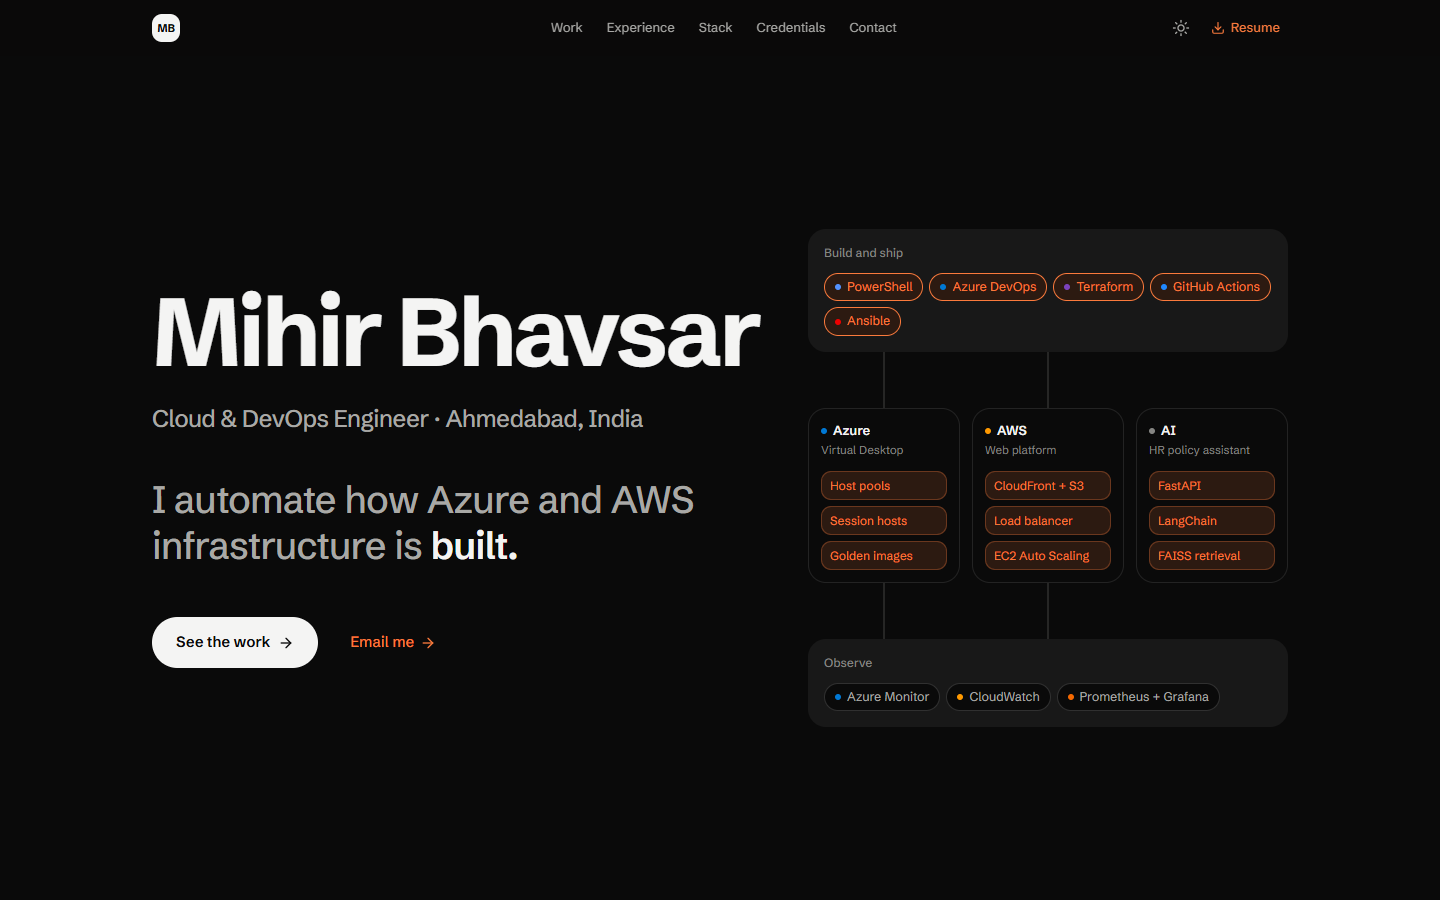
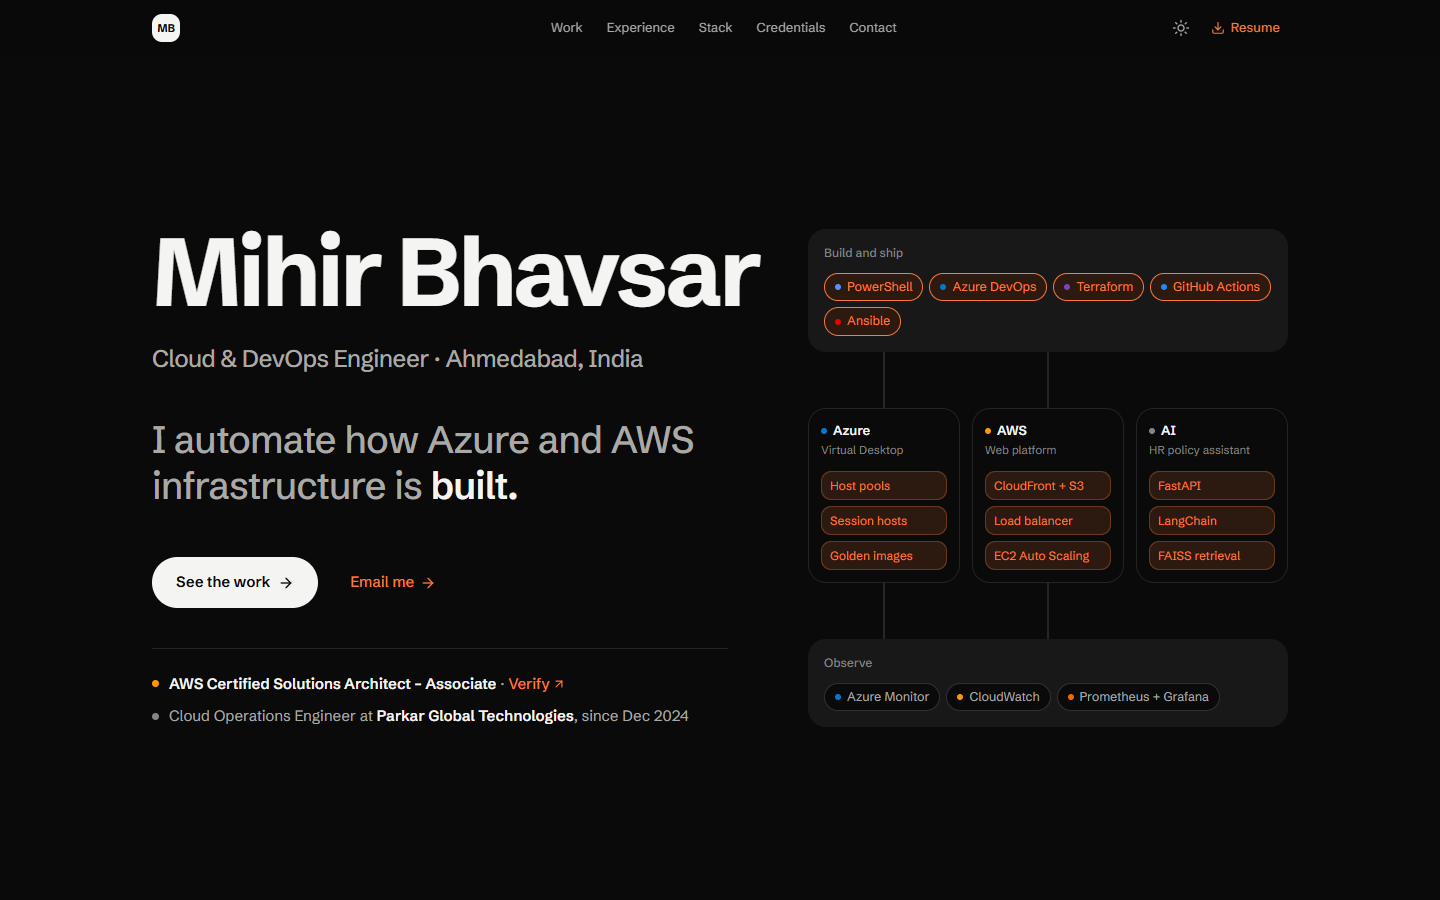
docs: record the phone diagrams, Experience lines and hero proof; refresh README screenshots

Changed region(s): [[0.0938, 0.2489, 0.5312, 0.8089]]

diff --git a/DESIGN.md b/DESIGN.md
@@ -225,7 +225,7 @@ components:
 
 **Creative North Star: "The Statement"**
 
-The site reads like a product launch page for an engineer: one idea per screen, set in big, confident, tightly tracked type, with nothing on the page that is not content. Screen one is who and what: the name, the role, and one crisp positioning line whose last word rolls through built, shipped and monitored, while the estate in miniature beside it plays the same three steps. Screen two proves it, with six measured figures at display size, each attached to the sentence that says how it was achieved. Screen three shows how the estate fits together, and any figure lights the infrastructure that produced it. The rest of the page keeps the same grammar: a statement heading, a short intro, then the evidence.
+The site reads like a product launch page for an engineer: one idea per screen, set in big, confident, tightly tracked type, with nothing on the page that is not content. Screen one is who and what: the name, the role, and one crisp positioning line whose last word rolls through built, shipped and monitored, while the estate in miniature beside it plays the same three steps; under the buttons, two proof lines name the AWS certification and the current role, the facts a recruiter screens for. Screen two proves it, with six measured figures at display size, each attached to the sentence that says how it was achieved. Screen three shows how the estate fits together, and any figure lights the infrastructure that produced it. The rest of the page keeps the same grammar: a statement heading, a short intro, then the evidence.
 
 The palette is pure white or pure black with near-black or near-white ink, in two first-class themes. A single persimmon accent marks what you can act on and what is lit, and colour beyond that appears only where it names something: the cloud a case study ran on, or a technology's brand dot. Depth is quiet: one tinted band behind the map, tinted cards for the work, and hairlines. Motion is one story and two entrances. The story is the hero's: every 3.2s the positioning line's last word rolls up to the next verb and the estate preview lights that step (tools and parts, then packets down to the workloads, then monitoring); it runs only while the hero is on screen and the tab is visible. The entrances each play once: the map settling and its edges drawing when it first scrolls into view, and one section reveal, where Selected work (the case-study cards, the page's product shots) fades up 8px over 700ms (ease-out-expo) as it arrives, if it started off screen. Neither entrance plays on case studies, in print, under reduced motion, or for anything already on screen when the page loads; under reduced motion, in print and without JavaScript the hero rests, its line read as one sentence. Everything else is a colour change or a 2px lift on hover.
 
@@ -249,7 +249,7 @@ Achromatic grounds and ink in two themes, one warm persimmon accent, and three c
 - **Persimmon Wash** (8% light, 14% dark): the fill of a selected figure chip and of a lit map node. A state colour only.
 
 ### Secondary
-- **Azure Signal** (light `#0b6bcb`, dark `#4ea1f0`), **AWS Amber** (light `#8a5c00`, dark `#f2b33d`), **Applied-AI Green** (light `#12703a`, dark `#4cc38a`): the cloud a case study ran on. Each tints its work card (6% into Surface One for the fill, 22% into Hairline for the border, 45% on hover) and colours the card's "where" label and dot. The light values clear 4.5:1 on their tinted card.
+- **Azure Signal** (light `#0b6bcb`, dark `#4ea1f0`), **AWS Amber** (light `#8a5c00`, dark `#f2b33d`), **Applied-AI Green** (light `#12703a`, dark `#4cc38a`): the cloud a case study ran on. Each tints its work card (6% into Surface One for the fill, 22% into Hairline for the border, 45% on hover) and colours the card's "where" label and dot. An Experience workstream takes the same colour as the 8px dot beside its name. The light values clear 4.5:1 on their tinted card.
 
 ### Neutral
 - **Canvas** (light `#ffffff`, dark `#0a0a0a`): the page, the nav at 85%, the trace hint, map nodes "cut into" their zones, stage chips.
@@ -266,7 +266,7 @@ Achromatic grounds and ink in two themes, one warm persimmon accent, and three c
 ### Named Rules
 **The One Persimmon Rule.** Persimmon is the only interface colour. It marks a text action, focus, a selection or a lit path, and nothing decorative. Buttons are ink, not persimmon.
 
-**The Cloud Means Something Rule.** Azure blue, AWS amber and AI green appear only where they name where work ran (the work cards). They are never used for emphasis, charts or decoration.
+**The Cloud Means Something Rule.** Azure blue, AWS amber and AI green appear only where they name where work ran (the work cards, and the dot beside an Experience workstream's name). They are never used for emphasis, charts or decoration.
 
 **The Marks Only Rule.** Technology brand colours (lib/tech.ts) render only as a 6–7px dot beside that technology's name; a brand with no usable colour gets an Ink Three dot.
 
@@ -362,6 +362,12 @@ The estate drawn as a server SVG on the Surface One band: a Build band over thre
 ### Hero Story (signature)
 The first screen's one moving idea. The positioning line is a lead ("I automate how Azure and AWS infrastructure is") and three verbs sharing one inline cell as wide as the longest, so nothing reflows: the current verb sits in place and the one it replaces rolls up and out over 750ms (ease-out-expo). Beside it, from lg, the estate in miniature, built from the same data as the map: the Build and ship lane (Surface Two, tool chips on Canvas with brand dots), the three workloads as Canvas cards with their first three parts on Surface One, and the Observe lane, joined by straight connectors only where the estate has an edge, so nothing runs into the AI workload. Each verb is a step. **Built** lights the tools and the parts (Persimmon text, a 40% persimmon border and the wash over Canvas, staggered 90ms). **Shipped** turns the build connectors persimmon, sends packets down them and edges the Azure and AWS cards. **Monitored** does the same for the Observe lane. A lit tool keeps its Canvas chip under the wash, because the wash straight over Surface Two misses AA. The preview is aria-hidden (the map section describes the estate) and the whole line is always in the page for screen readers. `HeroCycle` steps `data-phase` on the hero every 3.2s while it is on screen and the tab is visible; CSS does the rest.
 
+### Hero Proof
+Two lines under the hero's buttons, above a hairline, in 15px Ink Two: the AWS Solutions Architect – Associate certification in semibold Ink with an AWS dot and a persimmon "Verify ↗" text action to its Credly badge, then "Cloud Operations Engineer at **Parkar Global Technologies**, since Dec 2024" with an Ink Three dot. They are what a recruiter screens for, so they sit on the first screen at 375×812 and 1440×900; the full credentials and experience follow further down. The trading name is used here; the legal name keeps its one appearance in Experience.
+
+### Experience
+One role, then its workstreams (three columns from lg). The role reads as a title, the legal employer name in Ink Two, and the period with the time in the role ("Dec 2024 – present · 1 yr 10 mos", counted in whole months when the page renders), the location on its own line below sm. Each workstream has an 8px dot in its cloud's colour (Ink Three when it ran on none), a 1.25rem name, a 14px Ink Three line saying where it ran, then one line per fact of at most 20 words: the result first in semibold Ink, then how, in 15px Ink Two, on a 5px Graphic Line bullet. The case studies hold the longer story.
+
 ### Trace Hint
 When a figure is pinned and the map is out of view, a pill floats at the bottom centre: "**99.9%** is lit on the map", an ink "Show me ↓" pill linking to the map, and a clear button. It steps aside once the map is in view.
 
@@ -370,6 +376,9 @@ The close: "Let's talk." as a Headline, a Lede intro, then the address in persim
 
 ### Case Study
 A Headline-voice h1, a Lede summary, then "Measured outcomes" as a figure ledger on fine rules (3.25rem figures, two columns). The facts panel (Where, My part, Built with, Code) is sticky beside it from xl. MDX prose runs at 17px with 2rem headings; diagrams sit in an 18px Surface One frame with a caption row; ownership is a two-column ruled panel; the pager closes on two 18px cells with 20px semibold titles.
+
+### Architecture Diagram (case study)
+The figure tells its story through Trace, the same grammar as the home page's map. Under the caption row, a chip per step: each of the case study's figures first ("**99.9%** uptime"), then any step that has none ("What watches it"), styled exactly as the map's chips (12px side padding below sm so they pair up on a phone). Hover or focus previews a step, a tap pins it and mirrors it to `?trace=`, Escape or a second tap clears. Lit nodes take Persimmon Wash and a persimmon stroke, lit group outlines and their labels turn persimmon, lit edges and their arrowheads turn persimmon, and the rest dims to 30% over 220ms. Under the chips, one Ink Two line says why: a figure's claim and provenance, or a sentence the case study already says; at rest it is an Ink Three hint. From md the figure shows the drawing as it is laid out for desktop; below md it shows the same diagram laid out again for a tall screen (340 units wide, capped at 26rem so it stays near 1:1), never a shrunken copy or a list, so its text is 11px or more on a 360px phone. A text version of every group, node and connection stays in the page for screen readers at every size.
 
 ## Do's and Don'ts
 

diff --git a/README.md b/README.md
@@ -6,7 +6,7 @@ The source of my personal site. I'm a Cloud & DevOps engineer in Ahmedabad, Indi
 
 <picture>
   <source media="(prefers-color-scheme: dark)" srcset="docs/images/home-dark.png">
-  <img src="docs/images/home-light.png" alt="The site's first screen: my name, role and one-line positioning statement, beside a small diagram of my Azure, AWS and AI workloads and the tools that build and monitor them.">
+  <img src="docs/images/home-light.png" alt="The site's first screen: my name, role and one-line positioning statement, with my AWS certification and current role under it, beside a small diagram of my Azure, AWS and AI workloads and the tools that build and monitor them.">
 </picture>
 
 ## About me
@@ -27,10 +27,10 @@ Some results from that work. The site explains how each one was achieved:
 
 ## What's on the site
 
-- **What I do, on the first screen.** One line whose last word rolls through *built*, *shipped* and *monitored*, beside a small live diagram of my workloads that lights up the matching step.
+- **What I do, on the first screen.** One line whose last word rolls through *built*, *shipped* and *monitored*, beside a small live diagram of my workloads that lights up the matching step. Under it, my AWS certification (with a link to verify it) and my current role.
 - **Measured outcomes.** Six figures set large, each with the sentence that says how it was achieved and, where known, how it was measured.
 - **How it fits together.** A service map of three workloads under one way of building and monitoring them. Pick a figure and the map lights up whatever produced it.
-- **Selected work.** Four case studies, each with its own page and architecture diagram: [Azure Virtual Desktop automation](content/work/avd-automation.mdx), a [multi-AZ AWS web platform](content/work/aws-web-platform.mdx), an [HR policy assistant](content/work/hr-policy-assistant.mdx) and a [DevSecOps CI/CD pipeline](content/work/devsecops-pipeline.mdx).
+- **Selected work.** Four case studies, each with its own page and an architecture diagram that is drawn again for phones and lights up the parts behind each result: [Azure Virtual Desktop automation](content/work/avd-automation.mdx), a [multi-AZ AWS web platform](content/work/aws-web-platform.mdx), an [HR policy assistant](content/work/hr-policy-assistant.mdx) and a [DevSecOps CI/CD pipeline](content/work/devsecops-pipeline.mdx).
 - **Experience, stack, credentials, GitHub and contact.** Skills I've used at work or in a project are marked that way. The GitHub section shows hand-picked repositories with live details.
 
 The design reads like a product launch page: one idea per screen, big type, white or black backgrounds and one accent colour, in light and dark themes. The full visual system is in [DESIGN.md](DESIGN.md).
